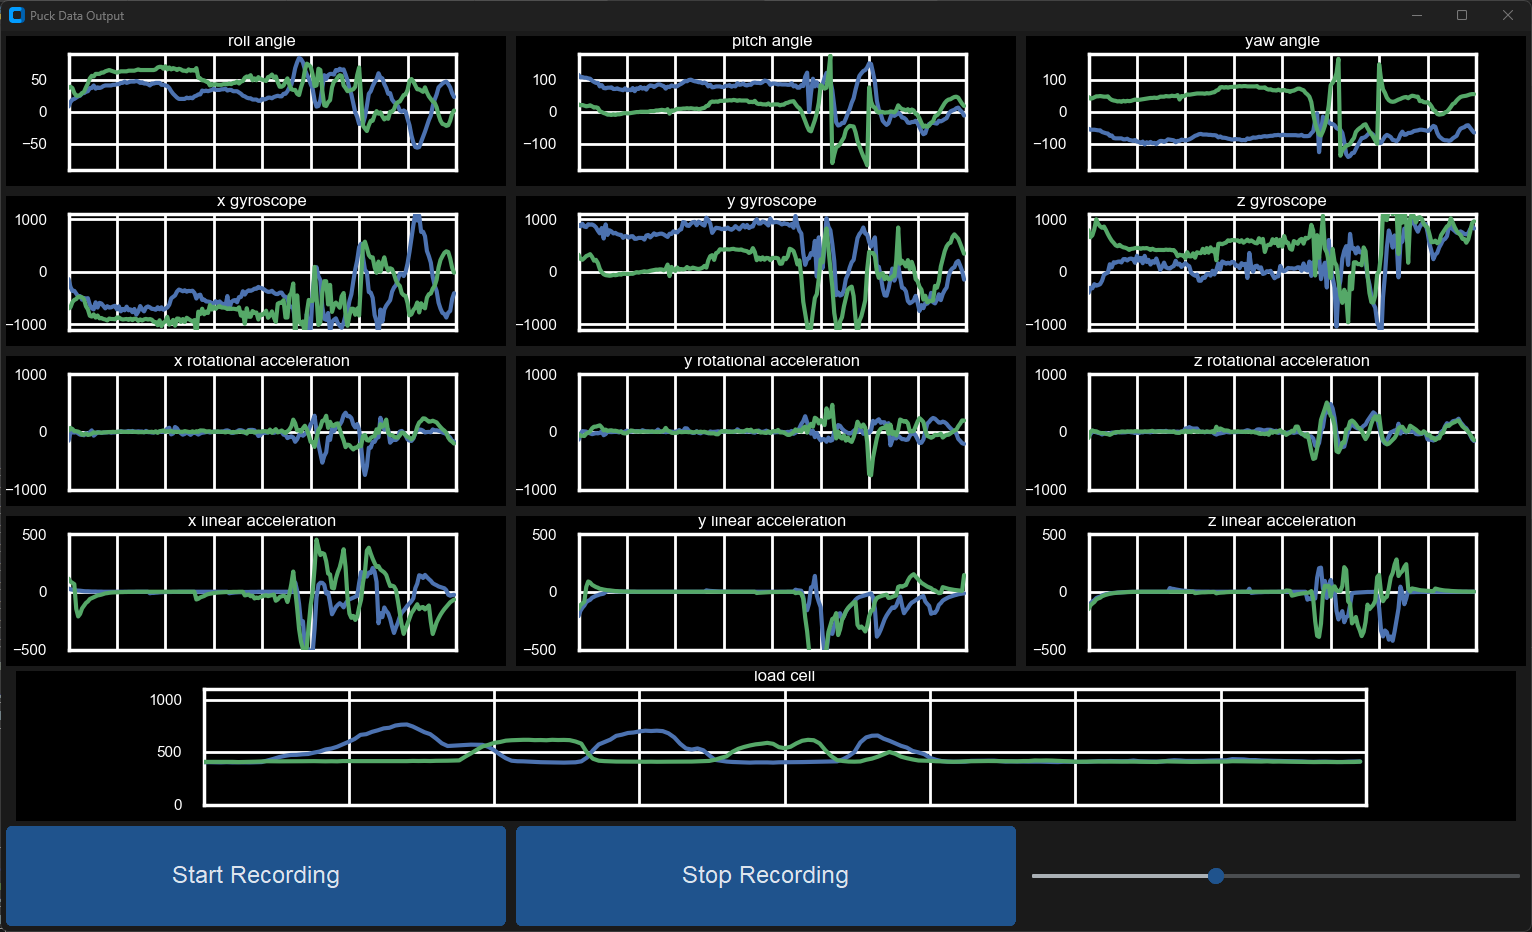
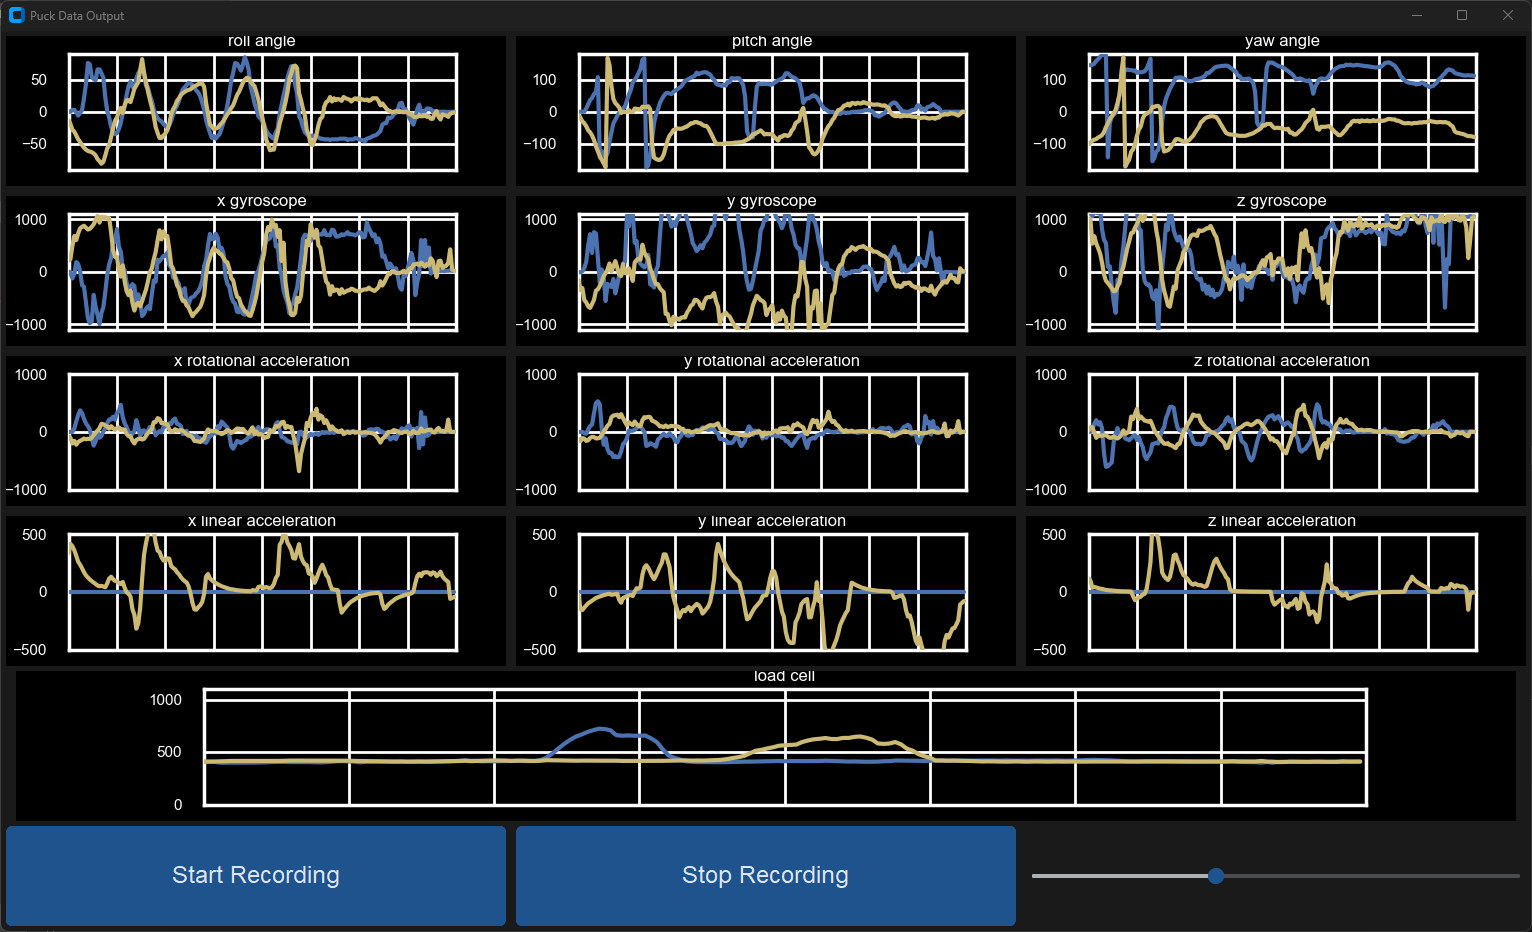
feat: Plotting GUI use yellow for the yellow puck
Changed form green so the line colors match the puck colors. When
squeezing the yellow puck still goes to magenta.

diff --git a/FitMi_Python3_Converstion/plot_puck_data_gui.py b/FitMi_Python3_Converstion/plot_puck_data_gui.py
@@ -437,7 +437,7 @@ class PlottingApp(ctk.CTk):
         if puck_1_data.touch and self.load_cell_plot.puck_2_plot:
             self.load_cell_plot.puck_2_plot.set_color("m")
         else:
-            self.load_cell_plot.puck_2_plot.set_color("g")
+            self.load_cell_plot.puck_2_plot.set_color("y")
 
     def update_buffers(self, puck_0_data: PuckPacket,
                        puck_1_data: PuckPacket) -> None:
@@ -600,7 +600,7 @@ class DataSubplot(ctk.CTkFrame):
         if second_puck:
             self.puck_2_plot = self.data_plot.plot(self.x_points,
                                                    self.puck_1_data,
-                                                   '-', color="g")[0]
+                                                   '-', color="y")[0]
 
     def set_title(self, title: str) -> None:
         '''
